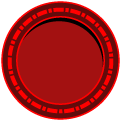
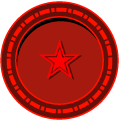
Revised Game Chips
I added a couple to the game board.

Changed region(s): [[0.0, 0.0, 1.0, 1.0], [0.325, 0.325, 0.7, 0.675]]

diff --git a/public/css/style.css b/public/css/style.css
@@ -25,4 +25,15 @@ h2{color:#800080}
 #chatLog{margin:0 0 20px;padding:25px;height:200px;border:1px solid #ccc;-webkit-box-shadow:3px 3px 8px #888;-moz-box-shadow:3px 3px 8px #888;-ms-box-shadow:3px 3px 8px #888;-o-box-shadow:3px 3px 8px #888;box-shadow:3px 3px 8px #888;overflow:auto;}
 #chatLog p{margin:0 0 5px}
 html{background-color:#4e95c7}
-body{background-color:#4e95c7}
+body{margin:0;color:#fff;background-color:#4e95c7;font:15px/1.2em 'Source Sans Pro',sans-serif}
+a,a:hover,a:visited,a:focus{color:#fff}
+#page{width:auto}
+header{overflow:hidden;}
+header h1{float:left;margin:15px 0 0 15px;background:url("../images/logo.png") no-repeat 0 0 transparent;}
+header h1 a{display:block;width:500px;height:91px}
+header nav{float:right;margin:0 50px 0 0;font-weight:600}
+header ul{list-style:none;margin:0;overflow:hidden}
+header li{float:left;margin:0 0 0 1px;}
+header li a{display:block;line-height:30px;padding:0 20px;background-color:#83cde2;text-decoration:none;-webkit-transition:all .2s ease;-moz-transition:all .2s ease;-ms-transition:all .2s ease;-o-transition:all .2s ease;transition:all .2s ease}
+header li a:hover{background-color:#76b9cb;padding-top:5px}
+#content{clear:both;overflow:hidden;padding:25px;width:auto}
